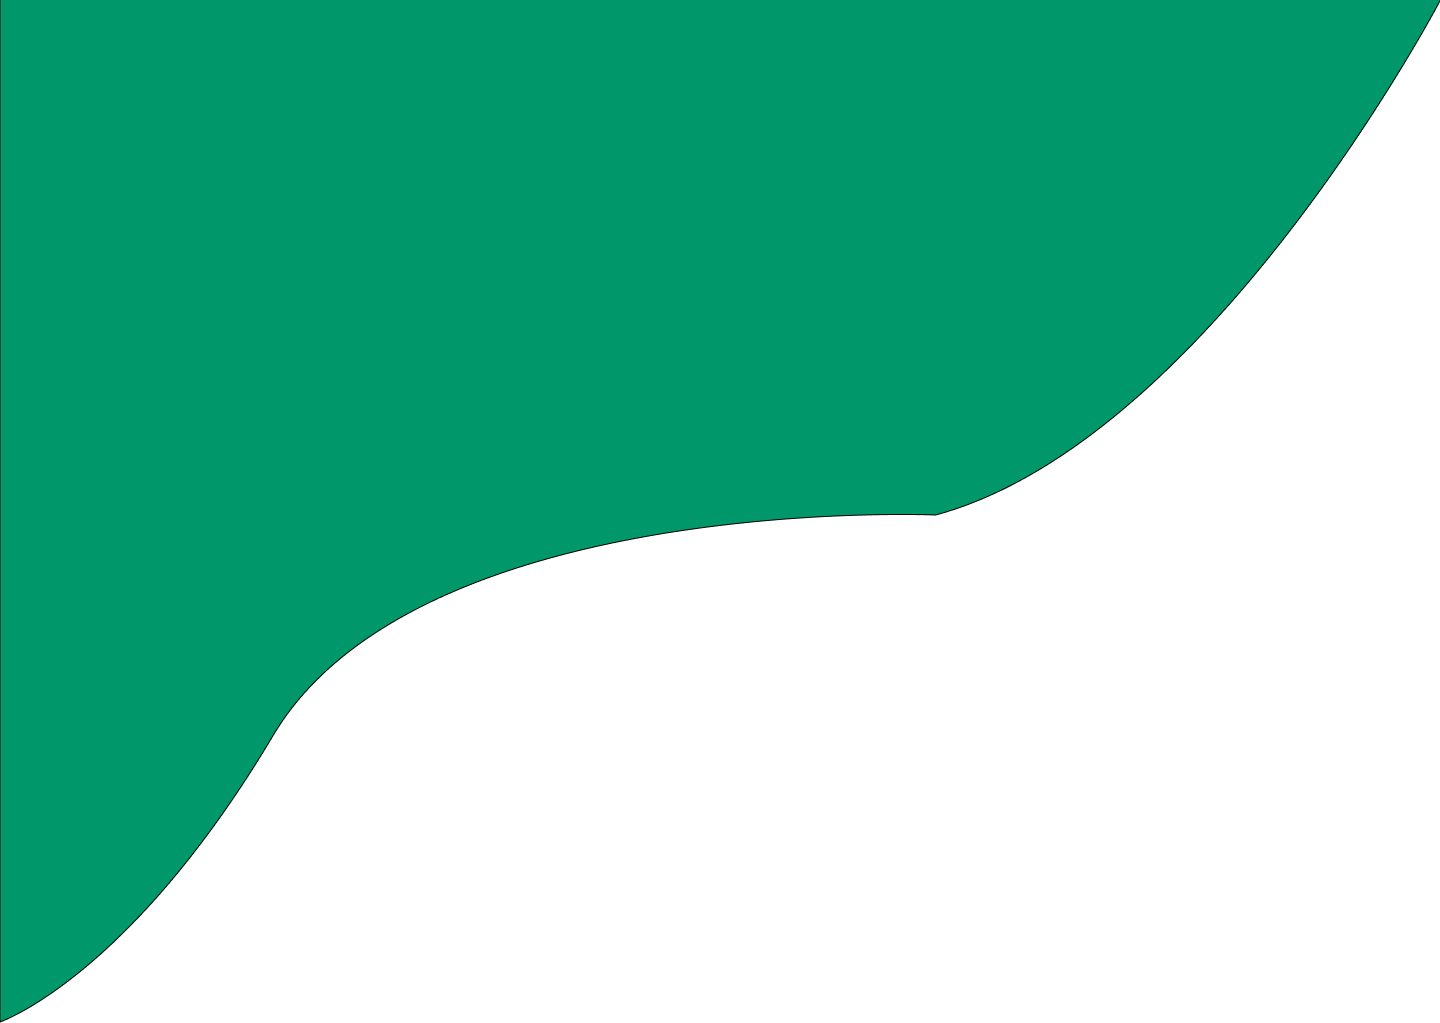
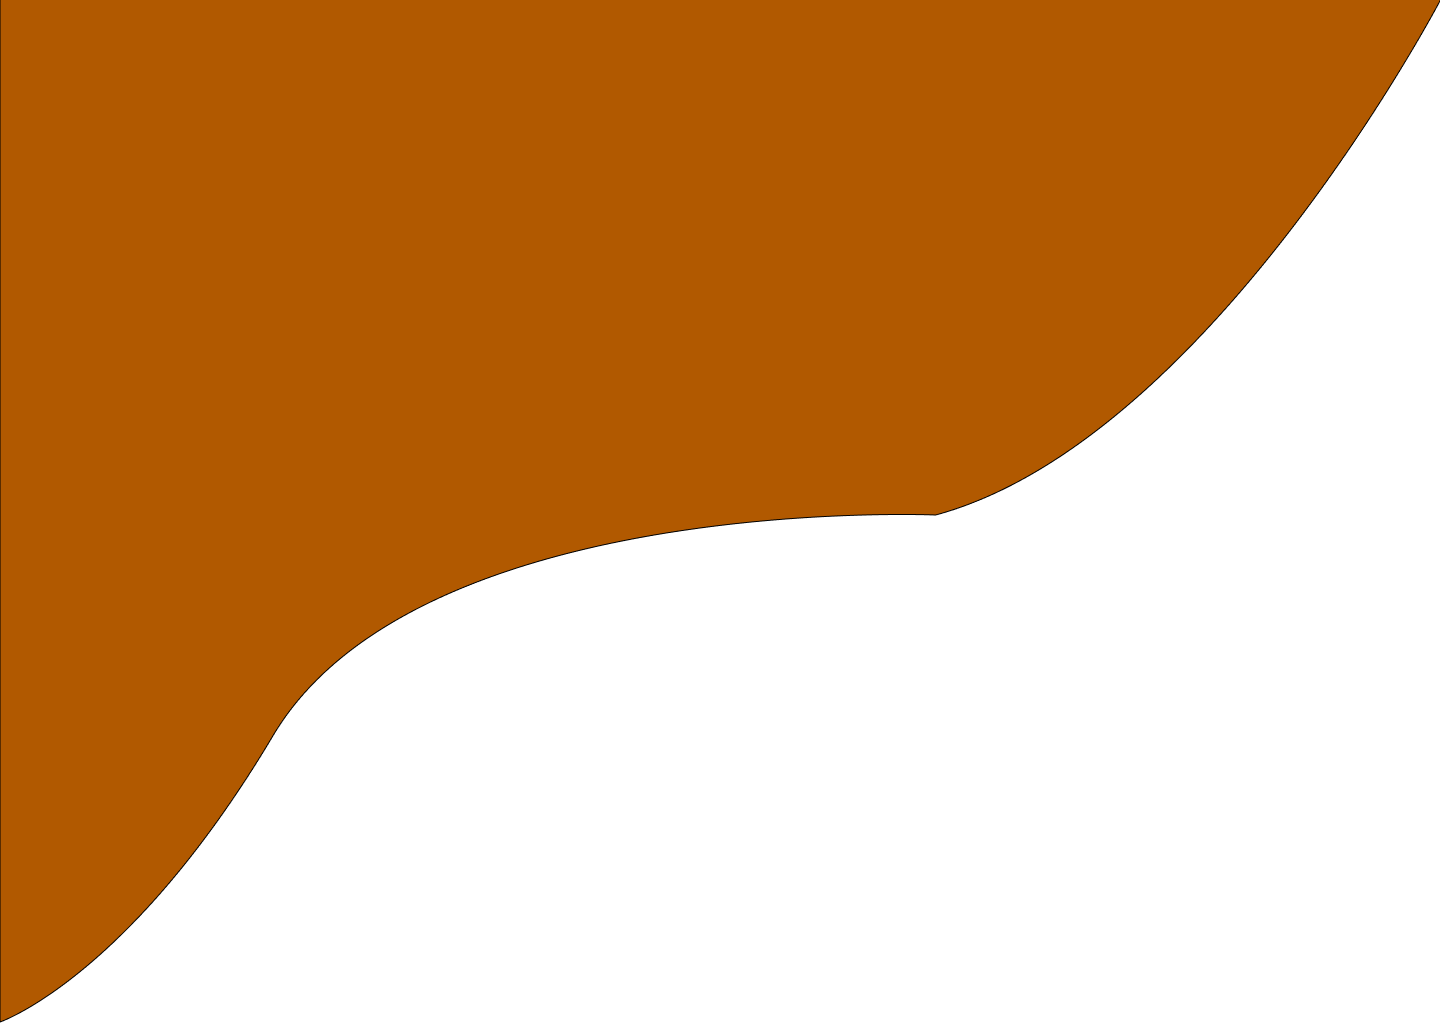
Summary

diff --git a/css/variables.css b/css/variables.css
@@ -1,5 +1,5 @@
 :root {
   --fr-primary-color: #000;
   --sc-primary-color: #fff;
-  --thr-primary-color: #00986a;
+  --thr-primary-color: #b15900;
 }
